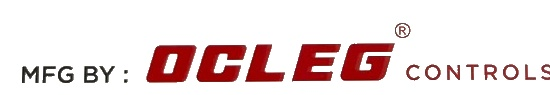
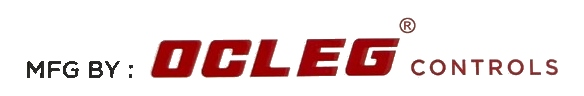
fix(brand): ensure letter S in CONTROLS is fully visible with balanced margins and bump asset cache

Changed region(s): [[0.0309, 0.3789, 1.0, 0.8842], [0.68, 0.1684, 0.7727, 0.4]]

diff --git a/src/app/contact/page.tsx b/src/app/contact/page.tsx
@@ -15,7 +15,7 @@ export default function ContactPage() {
           <div className="mb-4">
             {/* eslint-disable-next-line @next/next/no-img-element */}
             <img
-              src="/images/brand/mfg-by-ocleg-controls.png"
+              src="/images/brand/mfg-by-ocleg-controls.png?v=2"
               alt="MFG BY : OCLEG® CONTROLS"
               className="h-10 w-auto object-contain sm:h-12 md:h-14"
             />
